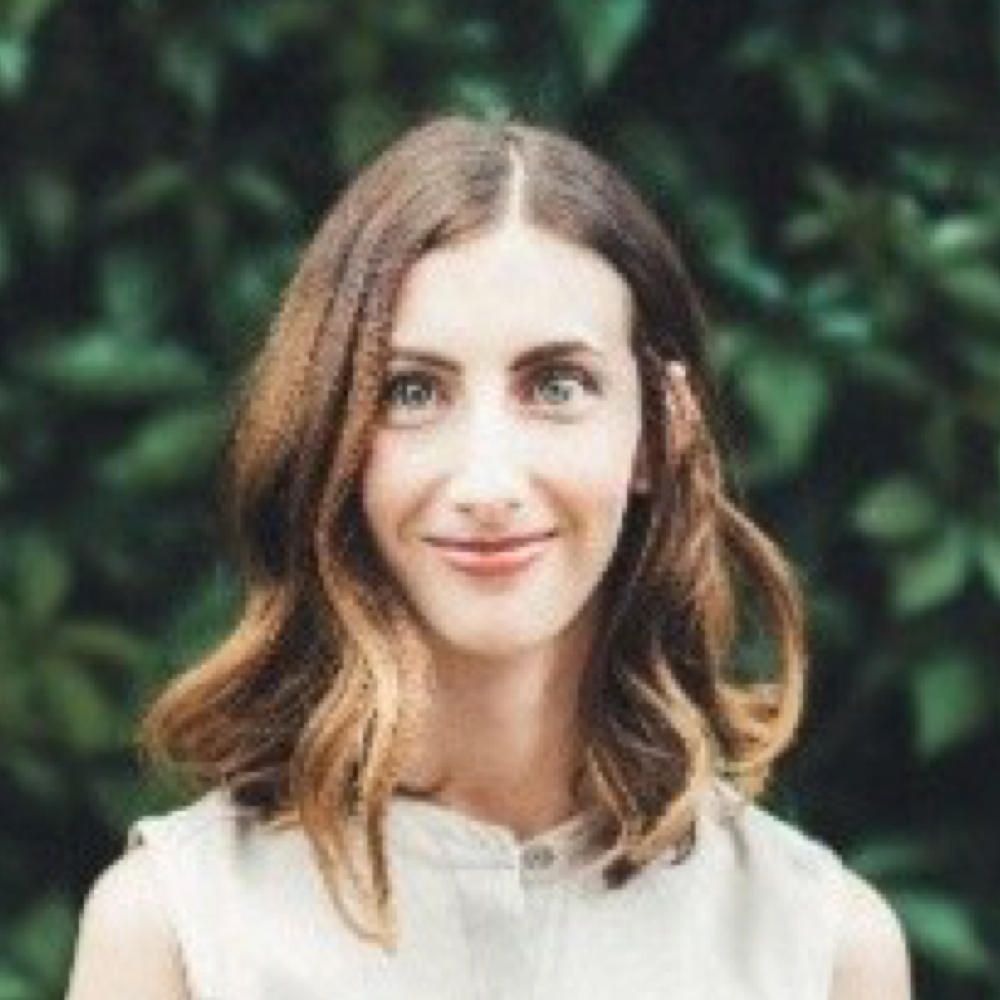
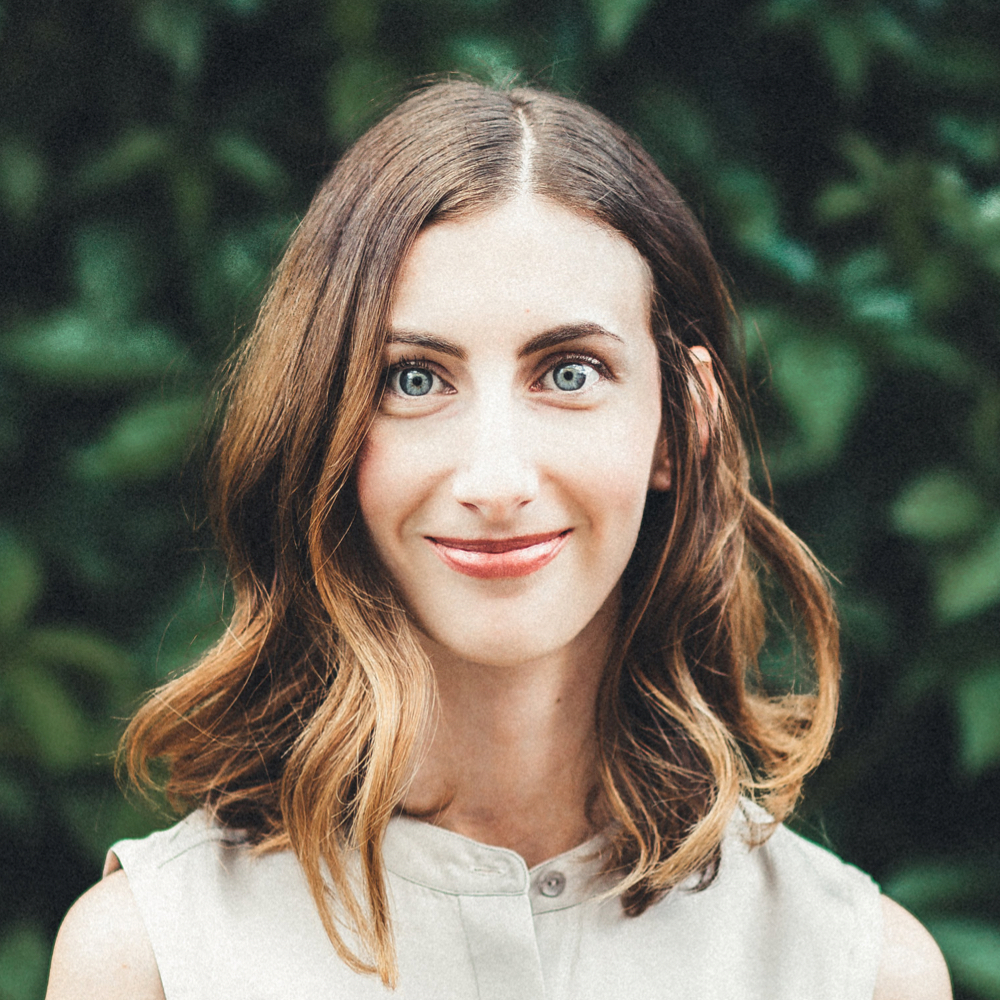
Added Lauren Treasure

diff --git a/conference/speakers.data.php b/conference/speakers.data.php
@@ -184,6 +184,21 @@ $speakers[] = array(
 	'linkedin' => 'https://www.linkedin.com/in/chrisabad/'
 );
 
+// Lauren Treasure
+$speakers[] = array(
+	'slug' => 'laurentreasure',
+	'first' => 'Lauren',
+	'last' => 'Treasure',
+	'title' => 'VP of Product',
+	'company' => 'Chatbooks',
+	'discipline' => 'product-management',
+	'photo' => 'headshots/laurentreasure.jpg',
+	'bio' => "Lauren Treasure is an experienced product leader and customer advocate. She has proven success leading teams through an iterative human-centered product design process that involves in-depth user research, prototyping, A/B testing, customer feedback and analytics. She is currently the VP of product at Chatbooks, where she leads the product, UX, and research teams. She started her career as a social science researcher in Washington DC, then transitioned into user experience research and product management. She has also led product teams at Ancestry, both in DNA and family history; and at Orca Health, a startup focused on providing mobile tools for healthcare providers to improve the quality of care.",
+	'twitter' => 'chrisabad',
+	'instagram' => '',
+	'linkedin' => 'https://www.linkedin.com/in/lstreasure/'
+);
+
 /*
 // Cameron Moll
 $speakers[] = array(

diff --git a/conference/talks.data.php b/conference/talks.data.php
@@ -16,6 +16,15 @@ $talks[] = array(
 	'speaker' => 'kimwilliams'
 );
 
+// Lauren Treasure
+$talks[] = array(
+	'title' => 'Product, Marketing and Customer Success Make a Power Trio',
+	'description' => 'How product teams can (and should) develop tight relationships with marketing and customer success to create a better customer experience. <br><br>Product teams often view a customer’s interaction with their offering as limited within a set of product features. But to a customer, it really extends to the end-to-end experience with your entire brand — from acquisition ads, targeted emails, and sponsored content, to the website, into the product, and continued via live chat or other support interactions. Consider how much better the customer journey can be with a consistent experience across every interaction. This presentation will provide a framework on how to build and maintain strong relationships with your marketing and CS counterparts, as well as real examples from my experience at Chatbooks and Ancestry.',
+	'day' => 1,
+	'slot' => 1,
+	'speaker' => 'laurentreasure'
+);
+
 
 
 
